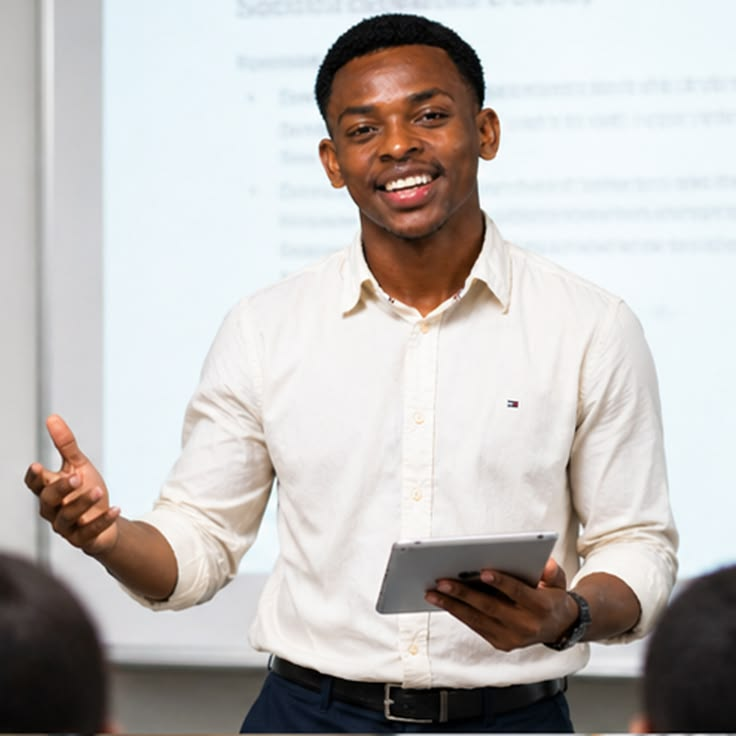
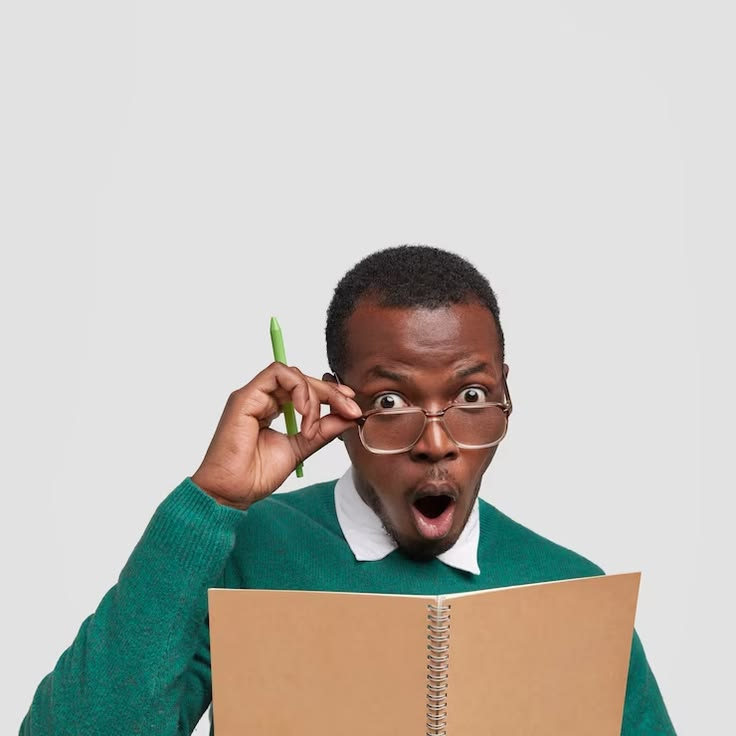
Update lecturer sign-up portrait and guest Sign in destination.
Use the new lecturer photo on the account picker, tune crop framing, and send guest header Sign in to /sign-up.

diff --git a/apps/web/app/globals.css b/apps/web/app/globals.css
@@ -436,7 +436,7 @@
 .auth-role-option:focus-visible { outline: 3px solid #75aee7; outline-offset: 3px; }
 .auth-role-art { position: relative; display: block; overflow: hidden; width: 100%; aspect-ratio: 1 / .8; border-radius: 12px; }
 .auth-role-art > img { display: block; width: 100%; height: 100%; object-fit: cover; object-position: center 38%; }
-.auth-role-lecturer .auth-role-art > img { object-position: center top; }
+.auth-role-lecturer .auth-role-art > img { object-position: center 32%; }
 .auth-role-art-badge { position: absolute; right: 9px; bottom: 9px; display: grid; width: 34px; height: 34px; place-items: center; border: 1px solid #ffffffbd; border-radius: 11px; background: #ffffffed; color: #244e70; box-shadow: 0 2px 6px #172b3c15; }
 .auth-role-lecturer .auth-role-art-badge { color: #496258; }
 .auth-role-copy { display: flex; min-width: 0; flex: 1; flex-direction: column; align-items: flex-start; padding: 13px 5px 5px; }

diff --git a/apps/web/components/shell/shell-frame.tsx b/apps/web/components/shell/shell-frame.tsx
@@ -16,7 +16,7 @@ export function ShellFrame({ children, pathname = "/home", displayName = "", unr
 }) {
   const destination = (href: string) => guest ? href === "/home" ? "/home" : `/home?view=${href.slice(1)}` : href;
   const activeLabel = studentNav.find((item) => isActive(pathname, item.href))?.label ?? "Home";
-  const account = guest ? <Button asChild size="sm" ><Link href="/sign-in">Sign in</Link></Button> : <>
+  const account = guest ? <Button asChild size="sm" ><Link href="/sign-up">Sign in</Link></Button> : <>
     <Link href="/people" className="notification-button" aria-label="Find people"><AppSearchIcon size={20} /></Link>
     {streak ? <StreakBadge streak={streak} /> : null}
     <Link href="/notification-settings" className="notification-button" aria-label={unread ? `Notifications, ${unread} unread` : "Notifications"}>
